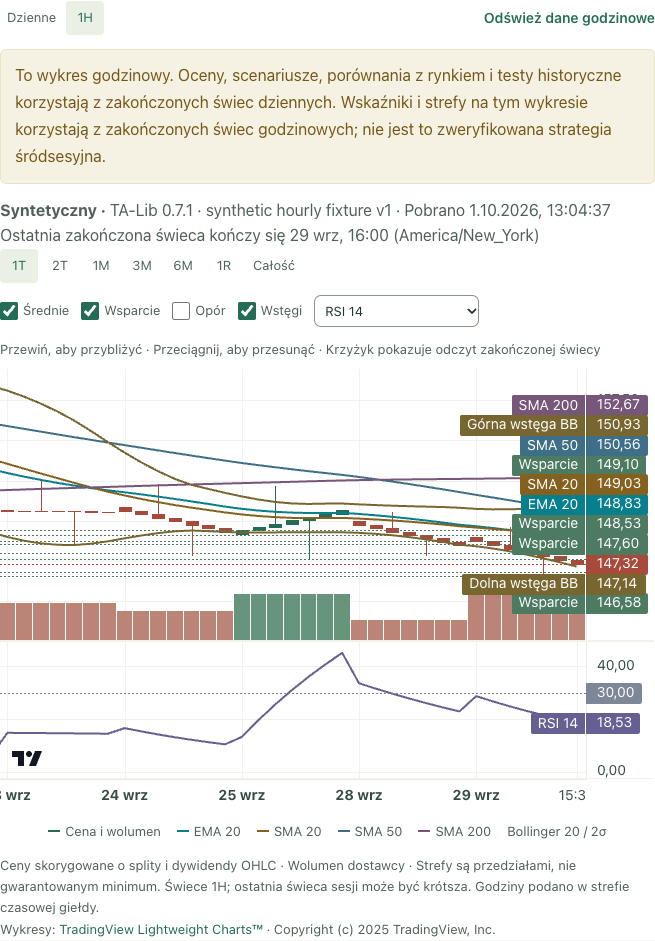
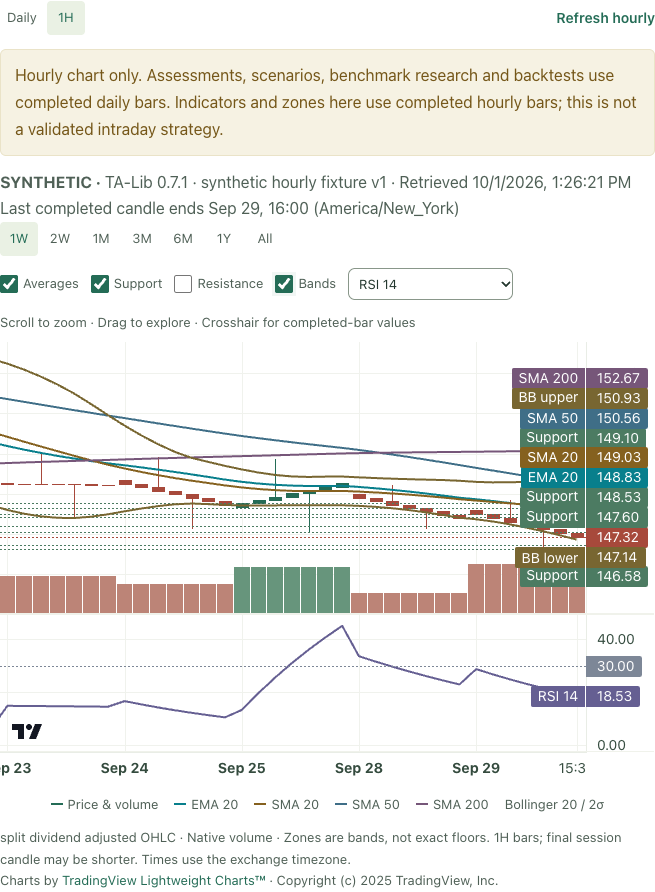
Use English screenshots throughout the README

diff --git a/frontend/tests/hourly.spec.ts b/frontend/tests/hourly.spec.ts
@@ -46,9 +46,6 @@ test("actual hourly candles, interval-local indicators, controls and daily resea
   await support.check();
   await page.getByLabel("Bands", { exact: true }).check();
   await page.getByLabel("Momentum panel").selectOption("rsi");
-  await page.getByRole("button", { name: "Polski", exact: true }).click();
-  await expect(page.locator(".hourly-notice")).toContainText("dziennych");
-  await expect(page.getByLabel("Wsparcie", { exact: true })).toBeChecked();
   expect(downloads).toBe(0);
   await page.locator(".price-chart").screenshot({
     path: path.resolve("../docs/screenshots/hourly-desktop.png"),
@@ -62,6 +59,10 @@ test("actual hourly candles, interval-local indicators, controls and daily resea
   await page.locator(".price-chart").screenshot({
     path: path.resolve("../docs/screenshots/hourly-narrow.png"),
   });
+  await page.getByRole("button", { name: "Polski", exact: true }).click();
+  await expect(page.locator(".hourly-notice")).toContainText("dziennych");
+  await expect(page.getByLabel("Wsparcie", { exact: true })).toBeChecked();
+  expect(downloads).toBe(0);
   await page
     .getByRole("button", { name: "Świece dzienne", exact: true })
     .click();

diff --git a/README.md b/README.md
@@ -83,9 +83,9 @@ Inspect candlesticks and volume with zoom, pan, and a crosshair. Toggle moving a
 
 **Daily / 1H** switches between completed daily and hourly candles. Hourly indicators and zones are calculated from hourly bars, with their own cache and refresh control.
 
-![Hourly candlestick chart with moving averages, support zones, volume, and RSI in the Polish interface](docs/screenshots/hourly-desktop.png)
+![Hourly candlestick chart with moving averages, support zones, volume, and RSI](docs/screenshots/hourly-desktop.png)
 
-*Hourly inspection in Polish. Assessments, scenarios, benchmark research, backtests, and exports continue to use completed daily bars. Hourly charts do not constitute a validated intraday strategy.*
+*Assessments, scenarios, benchmark research, backtests, and exports continue to use completed daily bars. Hourly charts do not constitute a validated intraday strategy.*
 
 ### Learn as you research
 
@@ -122,17 +122,6 @@ The **Earnings calendar** shows estimated company dates across **30-day** and **
 ![Earnings calendar showing estimated dates, a date range, source timestamps, and cached-data warnings](docs/screenshots/rookie-en-desktop-agenda.png)
 
 *Controlled calendar fixtures demonstrate estimated dates and failed-refresh warnings. Opening the calendar reads cached metadata; ordinary watchlist refresh updates it.*
-
-### English, Polish, and a responsive workspace
-
-Switch **ENG / PL** in the top bar. Navigation, learning panels, research tools, and Markdown reports follow the saved language choice. Source news, company names, and your own notes keep their original text; CSV headers remain stable.
-
-<details>
-<summary>View the Polish mobile interface</summary>
-
-<img src="docs/screenshots/rookie-pl-mobile-summary.png" alt="Polish mobile stock summary with conclusion, caution, and next observation" width="390">
-
-</details>
 
 ## Optional AI summaries
 
